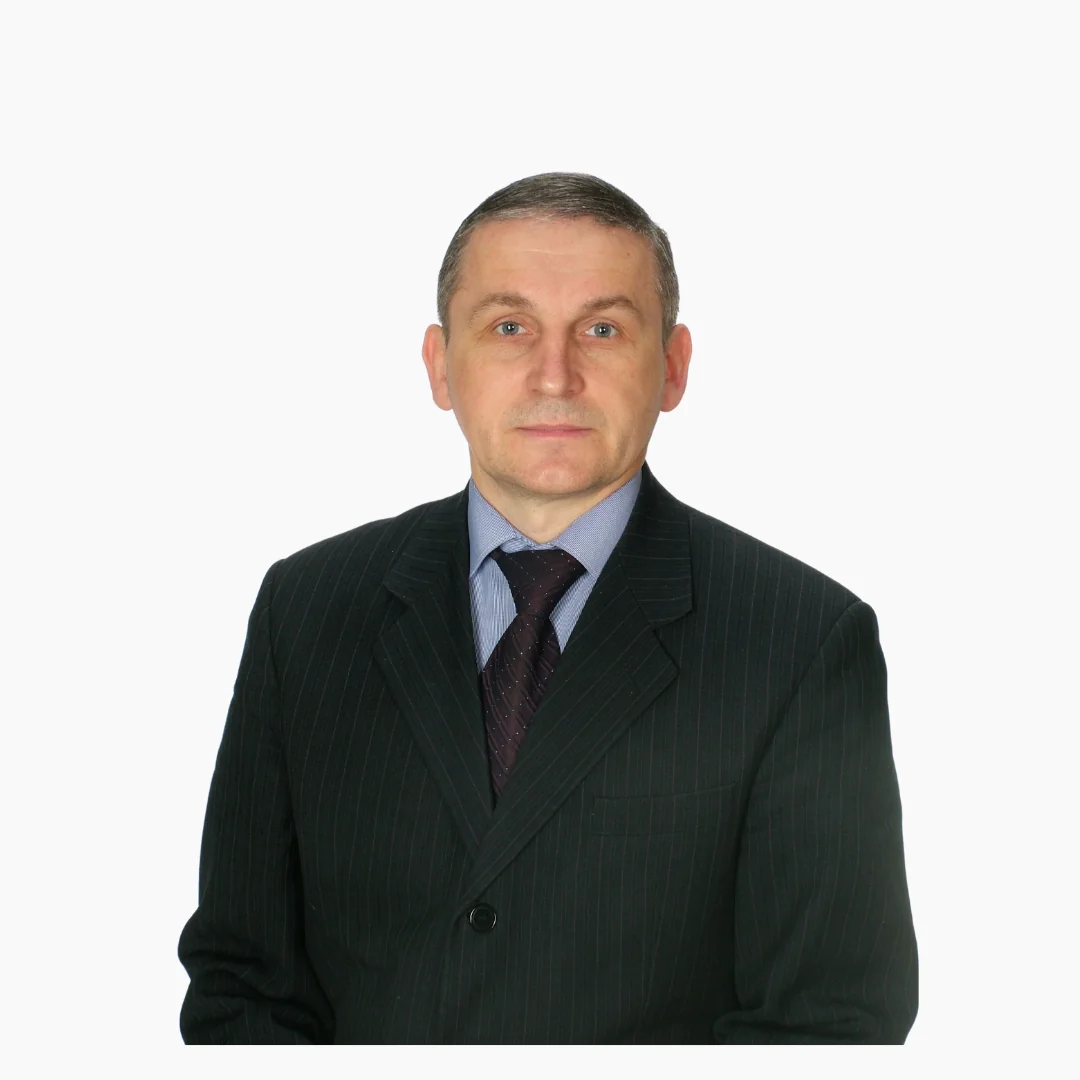
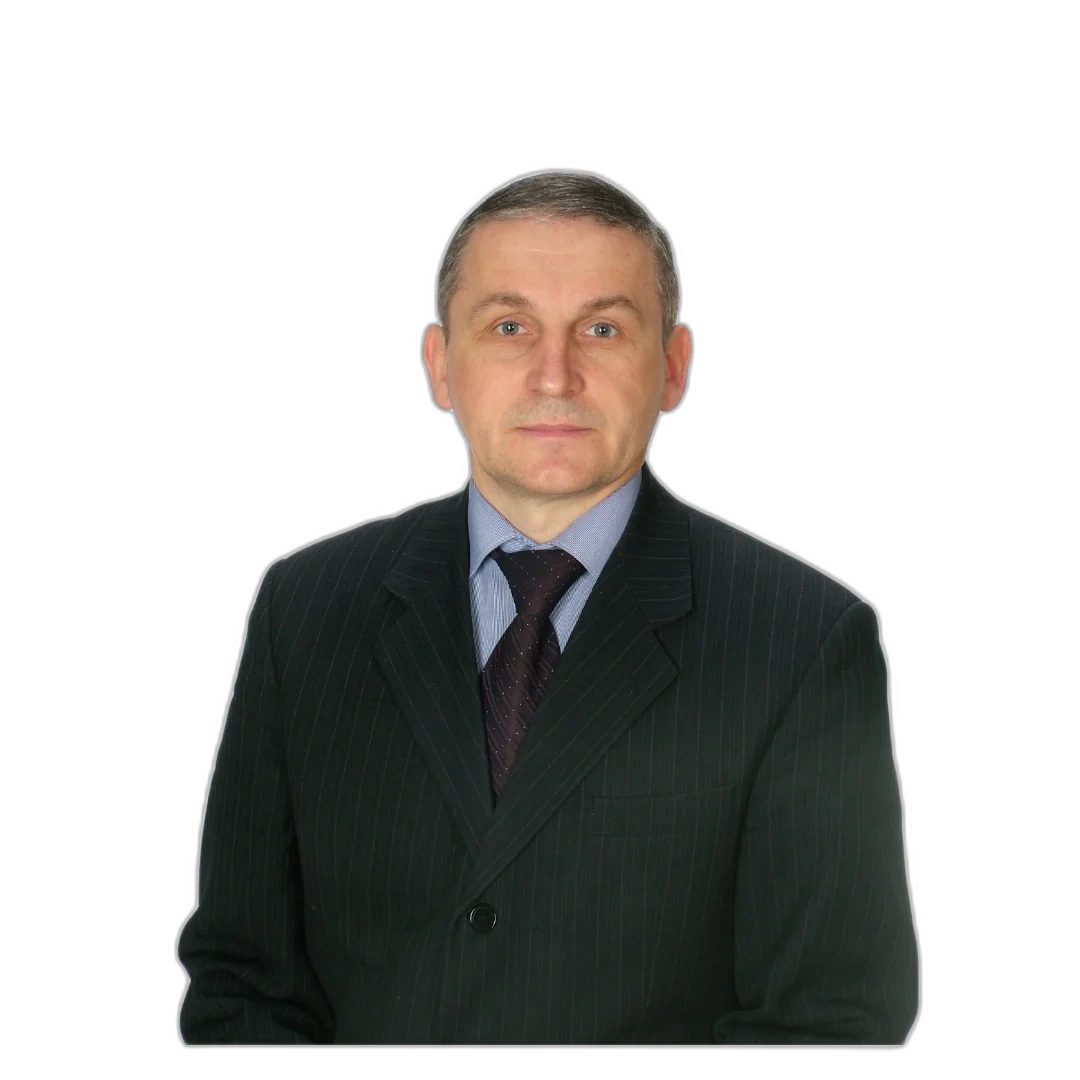
Add background removal for author images
Features:
- Added rembg library for automatic background removal
- Created management command to remove background from images
- Removed white background from author photos (osoianu, ostavciuc)
- Images now have transparent background for better appearance

Benefits:
- Cleaner, more professional look for author photos
- Transparent backgrounds integrate better with page design
- Can be used on any background color

🤖 Generated with [Claude Code](https://claude.com/claude-code)

diff --git a/main/management/commands/remove_background.py b/main/management/commands/remove_background.py
@@ -1,0 +1,88 @@
+from django.core.management.base import BaseCommand
+from django.conf import settings
+from rembg import remove
+from PIL import Image
+import os
+from pathlib import Path
+
+
+class Command(BaseCommand):
+    help = 'Remove background from specified images'
+
+    def add_arguments(self, parser):
+        parser.add_argument(
+            '--path',
+            type=str,
+            help='Specific file or directory path to process',
+        )
+        parser.add_argument(
+            '--pattern',
+            type=str,
+            help='File pattern to match (e.g., "osoianu,ostavciuc")',
+        )
+
+    def handle(self, *args, **options):
+        path = options.get('path')
+        pattern = options.get('pattern')
+
+        if path:
+            # Process specific path
+            target_path = Path(path)
+            if target_path.is_file():
+                self._process_file(target_path)
+            elif target_path.is_dir():
+                self._process_directory(target_path, pattern)
+        else:
+            # Default: process author images
+            static_img = Path(settings.BASE_DIR) / 'main' / 'static' / 'img'
+            self._process_directory(static_img, pattern or 'osoianu,ostavciuc')
+
+    def _process_directory(self, directory, pattern=None):
+        """Process all images in directory, optionally filtered by pattern"""
+        if not directory.exists():
+            self.stdout.write(
+                self.style.WARNING(f'Directory {directory} does not exist')
+            )
+            return
+
+        self.stdout.write(f'\nProcessing directory: {directory}')
+
+        patterns = pattern.split(',') if pattern else []
+        total_processed = 0
+
+        for file_path in directory.glob('*.webp'):
+            # Filter by pattern if specified
+            if patterns:
+                if not any(p.strip().lower() in file_path.name.lower() for p in patterns):
+                    continue
+
+            if self._process_file(file_path):
+                total_processed += 1
+
+        self.stdout.write(
+            self.style.SUCCESS(f'\nTotal images processed: {total_processed}')
+        )
+
+    def _process_file(self, file_path):
+        """Remove background from a single image file"""
+        try:
+            self.stdout.write(f'Processing: {file_path.name}...')
+
+            # Open image
+            with Image.open(file_path) as img:
+                # Remove background
+                output = remove(img)
+
+                # Save with transparency
+                output.save(file_path, 'WebP', quality=95, method=6)
+
+            self.stdout.write(
+                self.style.SUCCESS(f'✓ Background removed: {file_path.name}')
+            )
+            return True
+
+        except Exception as e:
+            self.stdout.write(
+                self.style.ERROR(f'✗ Error processing {file_path.name}: {str(e)}')
+            )
+            return False
